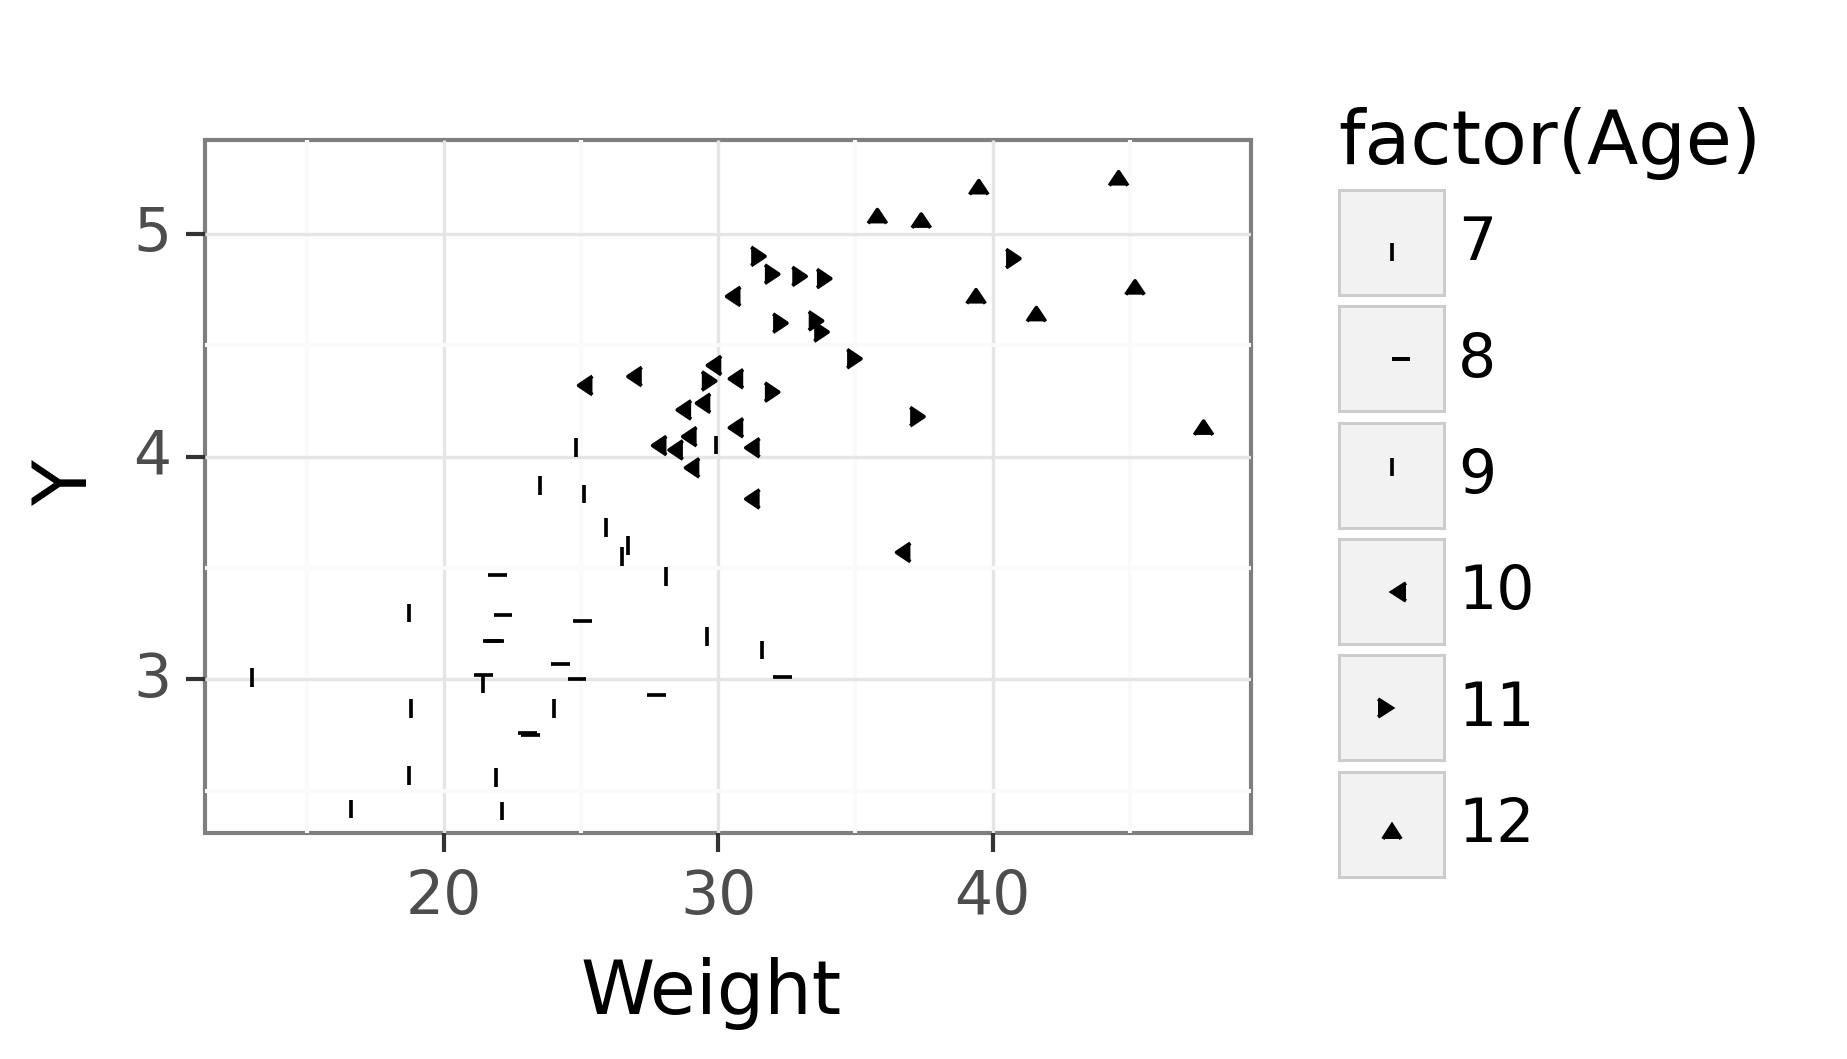
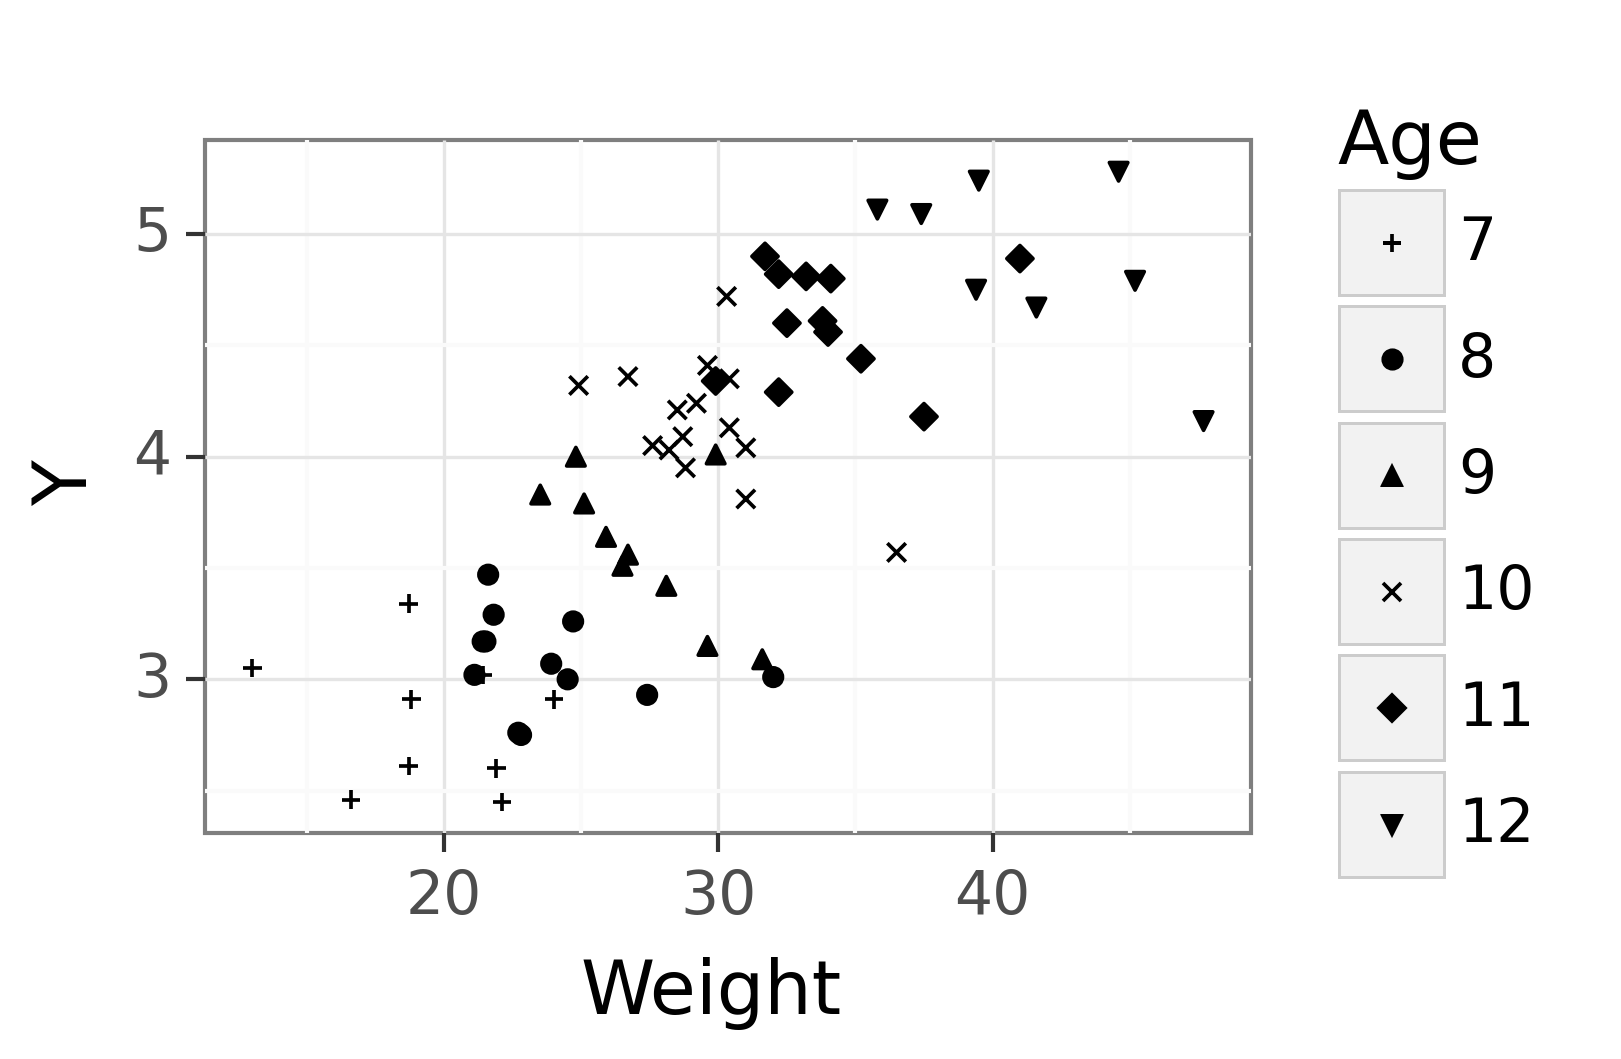
small fix for the legend

diff --git a/chap07/fig7-8.py b/chap07/fig7-8.py
@@ -1,15 +1,18 @@
 import pandas
-from plotnine import ggplot, aes, theme_bw, geom_point, scale_shape_manual
+from plotnine import ggplot, aes, theme_bw, geom_point, scale_shape_manual, labs
 
 d = pandas.read_csv('input/data-50m.csv')
 
 p = (ggplot(d, aes('Weight', 'Y'))
     + theme_bw(base_size=18)
-    + geom_point(shape='o', size=2))
+    + geom_point(shape='o', size=2)
+)
 p.save(filename='output/fig7-8-left.py.png', dpi=300, width=3.8, height=3)
 
 p = (ggplot(d, aes('Weight', 'Y', shape='factor(Age)'))
     + theme_bw(base_size=18)
     + geom_point(size=2)
-    + scale_shape_manual(values=[3, 1, 2, 4, 5, 6]))
+    + scale_shape_manual(values=['+', 'o', '^', 'x', 'D', 'v'])
+    + labs(shape='Age')
+)
 p.save(filename='output/fig7-8-right.py.png', dpi=300, width=4.5, height=3)
